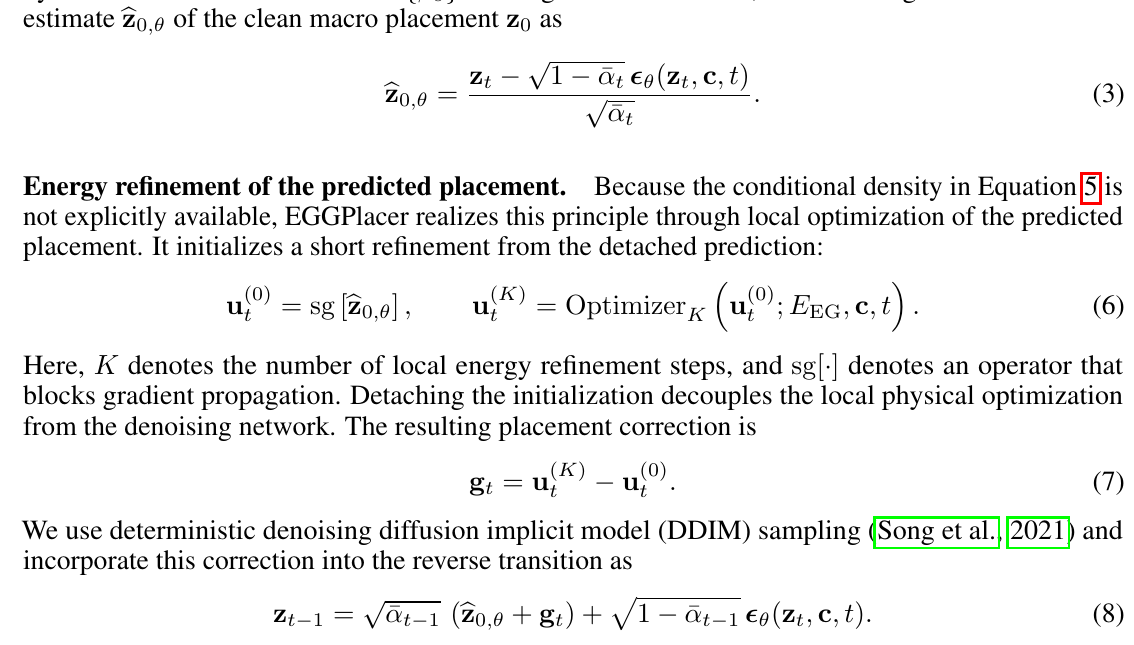
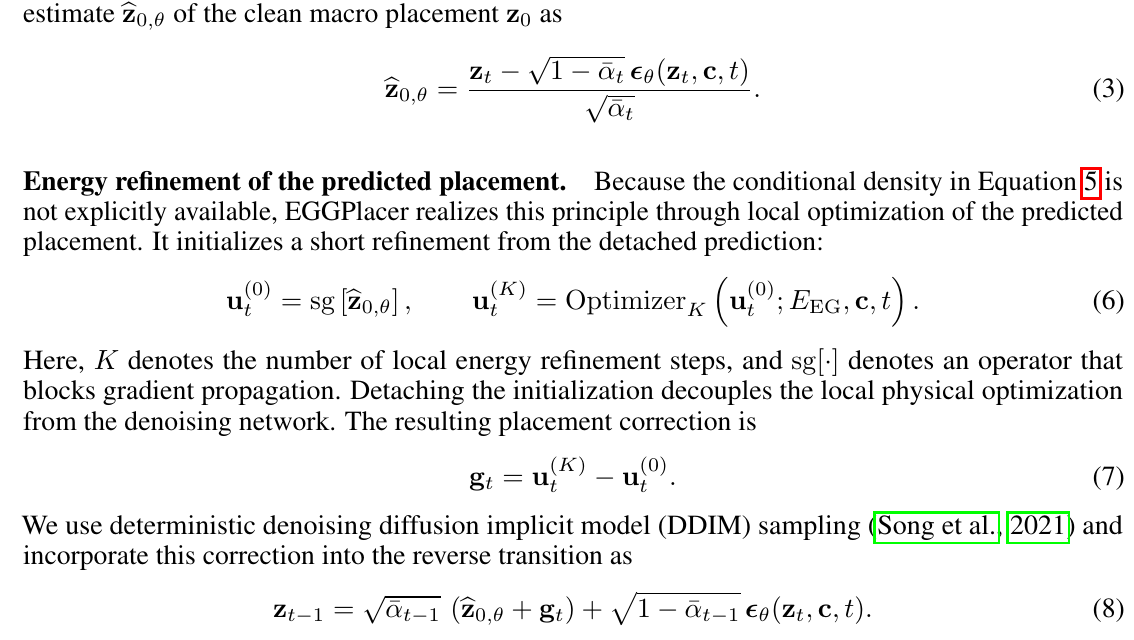
docs: tighter Eq. 3 crop

diff --git a/docs/make_figures.py b/docs/make_figures.py
@@ -24,7 +24,7 @@ PDF_URL = "https://arxiv.org/pdf/2610.33099"
 # (page, y0, y1) in PDF points, x range 100-508 pt: positions taken from `pdftotext -bbox-layout`
 PAPER = {
     "paper_eq15_training.png": [(15, 80, 121)],
-    "paper_eq3_6_8_guided_ddim.png": [(4, 384.6, 432), (5, 80, 254)],
+    "paper_eq3_6_8_guided_ddim.png": [(4, 386.5, 432), (5, 80, 254)],
     "paper_eq4_21_22_weights.png": [(4, 507, 566), (16, 80, 229)],
     "paper_eq18_wawl.png": [(15, 371, 487)],
     "paper_eq20_overlap.png": [(15, 671, 735)],
